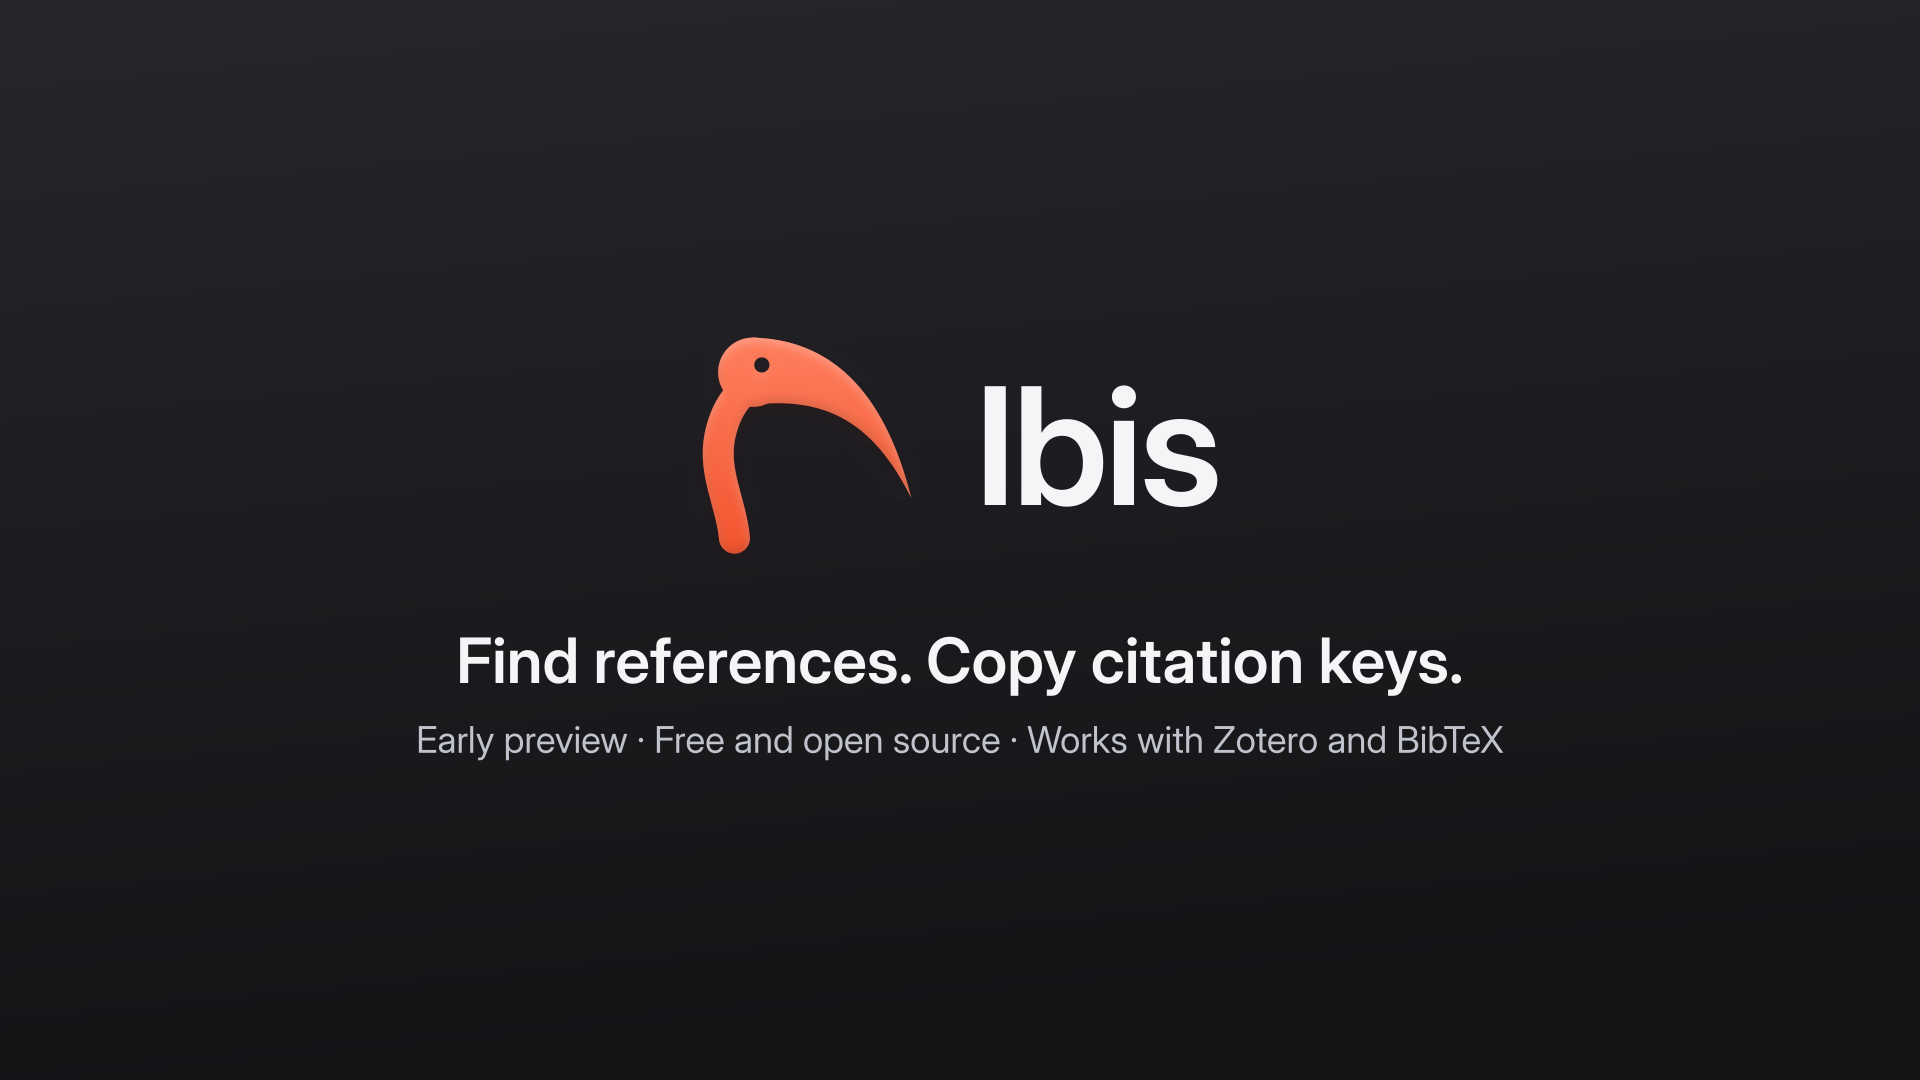
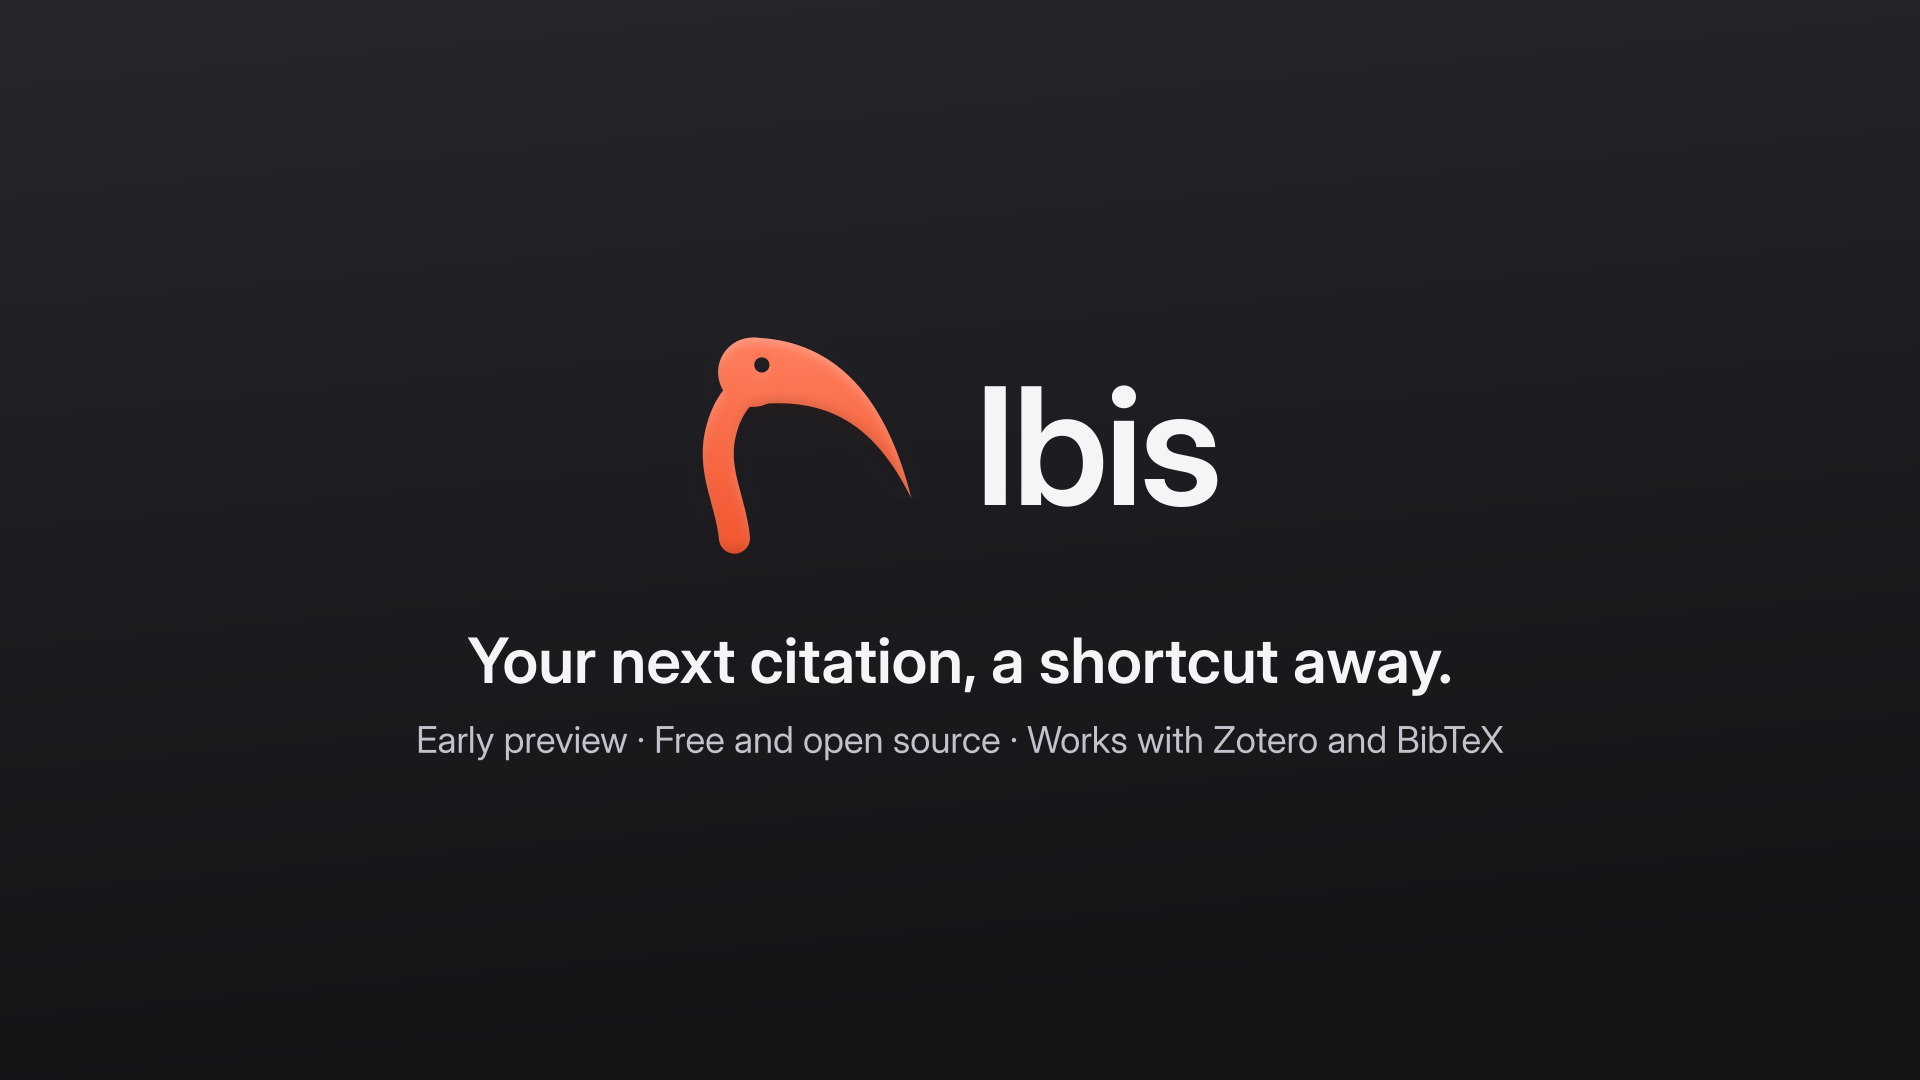
docs: align public messaging with the Ibis brand headline (#1040)
Assisted-by: Codex GPT-6

Changed region(s): [[0.2188, 0.5806, 0.7812, 0.6417]]

diff --git a/scripts/test_brand.py b/scripts/test_brand.py
@@ -1,5 +1,7 @@
 """The brand drift check reports stale, missing and unexpected generated files."""
 from pathlib import Path
+import html
+import json
 import os
 import runpy
 import tempfile
@@ -10,6 +12,13 @@ BUILD = runpy.run_path(str(Path(__file__).resolve().parents[1] / "brand/build.py
 
 
 class BrandDrift(unittest.TestCase):
+    def test_readme_uses_the_current_public_headline(self):
+        root = Path(__file__).resolve().parents[1]
+        words = json.loads((root / "brand/settings.json").read_text())["words"]
+        headline = f'<strong>{html.escape(words["tagline"])}</strong>'
+        self.assertTrue(headline in (root / "README.md").read_text(),
+                        "README headline must match brand/settings.json words.tagline")
+
     def test_text_rendering_does_not_inherit_the_native_font_backend(self):
         with patch.dict(os.environ, {"PANGOCAIRO_BACKEND": "coretext"}), patch("subprocess.run") as render:
             BUILD["png"]("synthetic.svg", "synthetic.png", 32)

diff --git a/README.md b/README.md
@@ -5,7 +5,7 @@
   </picture>
 </h1>
 
-<p align="center"><strong>Find references. Copy citation keys.</strong><br>Search your libraries, copy a citation key or a formatted citation, and paste it where you write.</p>
+<p align="center"><strong>Your next citation, a shortcut away.</strong><br>Search your libraries, copy a citation key or a formatted citation, and paste it where you write.</p>
 
 Ibis is free and open source. Searching and copying work offline after setup. Ibis adds no analytics and never changes your libraries. See [privacy and local storage](PRIVACY.md) for runtime data and optional update checks.
 
@@ -43,7 +43,7 @@ Some Linux desktops, including GNOME without a tray extension, show no tray icon
 ## First use
 
 1. Press the shortcut. The first time, Ibis offers Zotero if it is open and lists `.bib` files in your Documents, Desktop and Downloads folders; pick one, or choose **Choose library…** for any other file. It also asks where you write and sets the copy format to match.
-2. Type a few words from the author, title or year, and use the arrow keys to pick a reference.
+2. Search by author, title, year, journal, citation key or keywords. You can combine words from different fields. Use the arrow keys to pick a reference.
 3. Press **Enter** to copy the citation, then paste it into your document. **Shift+Enter** adds several references to one citation. Press **Ctrl+/** (**⌘/** on macOS) to see every key.
 
 Hide or show the citation output with **Show what will be pasted** in **More**, or **Ctrl+I** (**⌘I** on macOS). Ibis remembers this choice; the references you added stay selected.

diff --git a/brand/README.md b/brand/README.md
@@ -36,7 +36,7 @@ M is the height of the bird.
 - **Colour.** Scarlet 600 `#C23A1C` on light backgrounds and Scarlet 400 `#FF7A5C` on dark. Text is Ink `#16181D` or Slate `#4C5260` on light, and near-white on dark. The full Scarlet scale (50 to 900) is for websites and videos: tints for backgrounds, 600 to 800 for text and links on light. Never stretch, outline or recolour the bird in other hues, or add effects.
 - **Themes.** Websites use `colors.css`: light by default, dark when the system is dark, and an optional dim theme (`data-theme="dim"`) for a softer charcoal. Each theme names the same roles: `bg`, `surface`, `line`, `text`, `muted`, `accent`, `accent-soft`.
 - **Motion.** The logo animation draws the neck, grows the head and beak out together as one shape, then fades in the wordmark, in about 1.5 s. People who ask their system for reduced motion see the finished logo. Use it once per page or video, never on a loop.
-- **Words.** Lead with "Find references. Copy citation keys." Say "early preview" until 1.0, and name only what ships today.
+- **Words.** Use `words.tagline` in `settings.json` for the public headline. Say "early preview" until 1.0, and name only what ships today.
 
 ## Changing the brand
 
